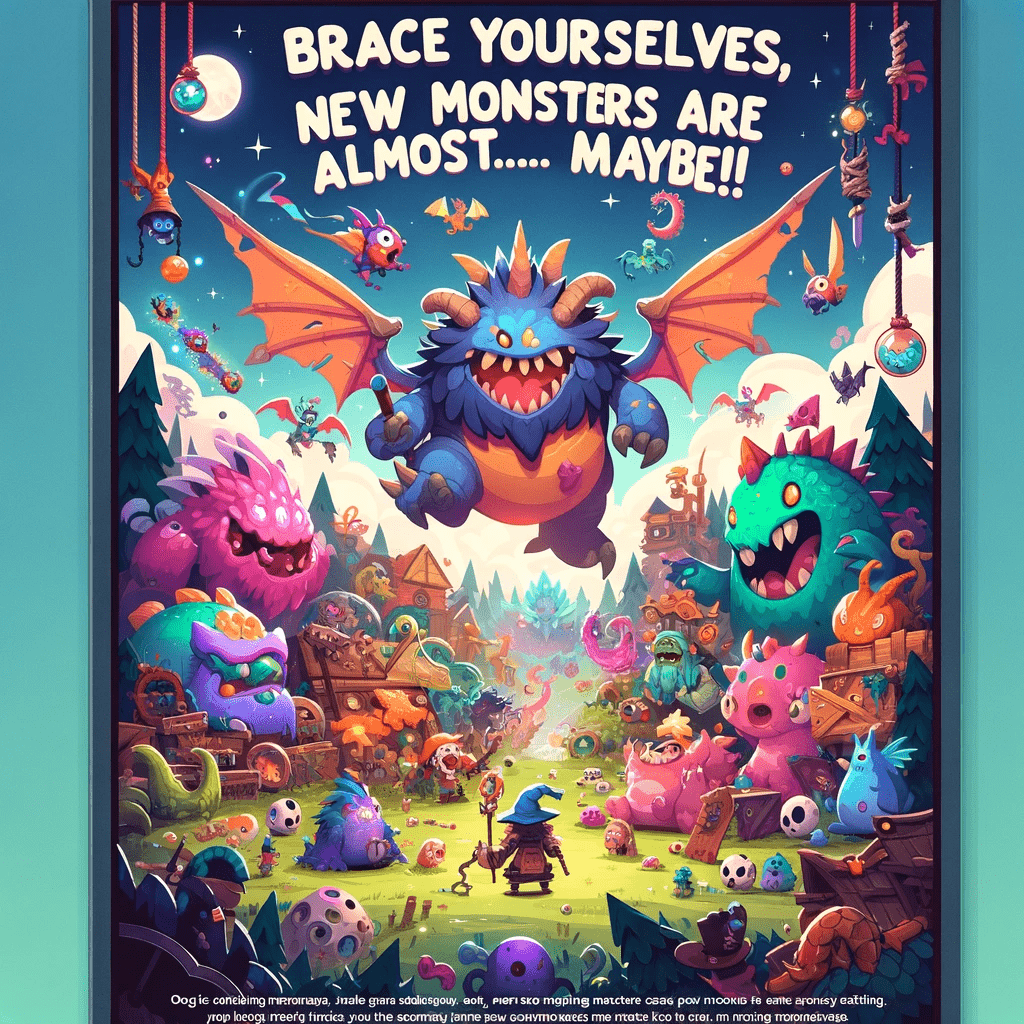
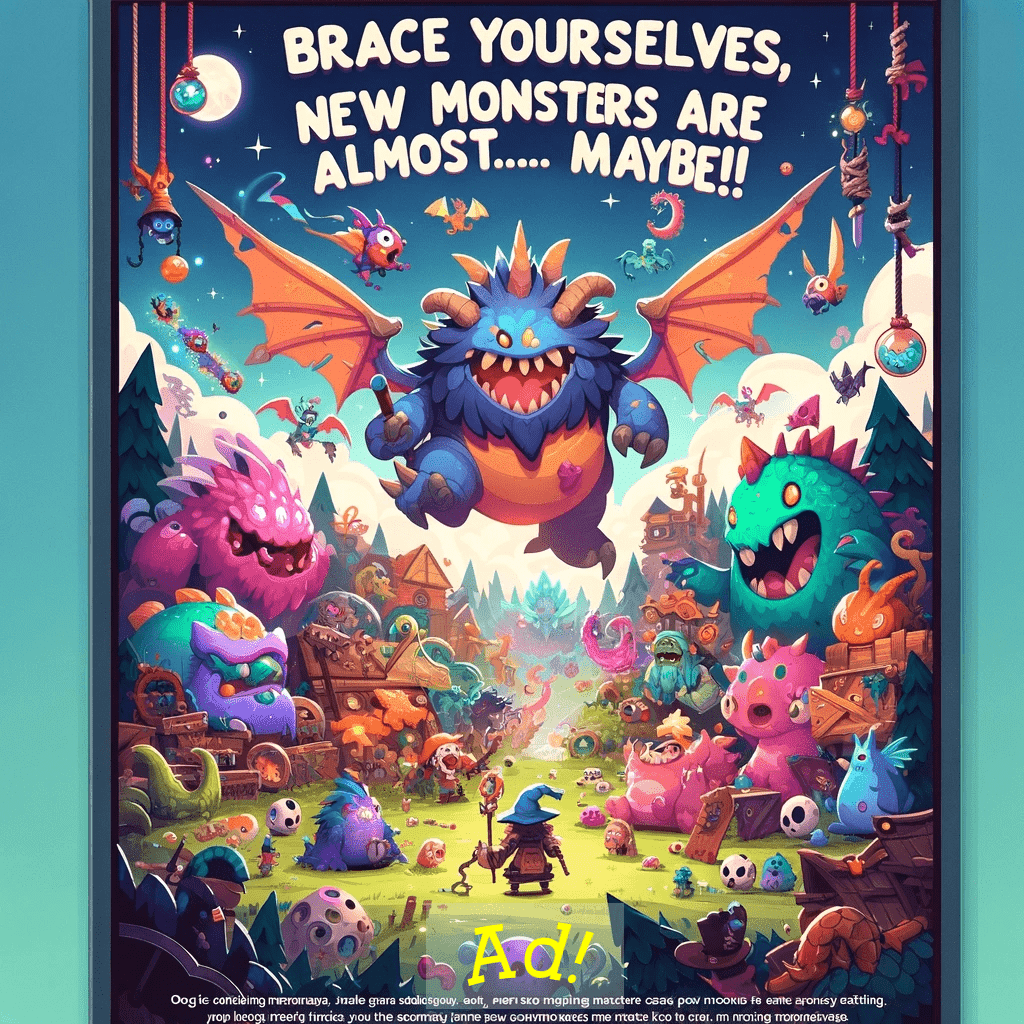
Second ad to modal added

diff --git a/screens/ScanningScreen.js b/screens/ScanningScreen.js
@@ -9,7 +9,9 @@ import { Audio } from 'expo-av';
 import Slider from '@react-native-community/slider';
 import ScanningModal from '../modals/ScanningModal';
 import AdModal from '../modals/AdModal';
-import adImage from '../assets/images/adpicture1.png';
+import adImage1 from '../assets/images/adpicture1.png';
+import adImage2 from '../assets/images/adpicture2.png';
+
 import { findMonster, fetchMonsterDetailsFromFirestore, fetchMonsterImageURL } from '../utils/monsterUtils';
 import AsyncStorage from '@react-native-async-storage/async-storage';
 
@@ -35,8 +37,11 @@ export default function ScanningScreen({ navigation }) {
   const [scannedBarcodes, setScannedBarcodes] = useState([]);
   const [scanningMessage, setScanningMessage] = useState('');
   const [adModalVisible, setAdModalVisible] = useState(false);
-  const adImage = require('../assets/images/adpicture1.png');
-
+  const [currentAdIndex, setCurrentAdIndex] = useState(0); // New state to track current ad
+  const ads = [
+    { image: adImage1,  },
+    { image: adImage2,  }
+  ]
   // Function to load the last 10 scanned barcodes from AsyncStorage
 const loadScannedBarcodes = async () => {
   try {
@@ -68,18 +73,15 @@ const saveScannedBarcodes = async () => {
   }
 };
 
-  const initiateScanning = () => {
-    // Randomly decide to show ad or initiate scanning
-    if (Math.random() < 0.2) { // Adjust this threshold as needed
-      // Show ad modal
-      setAdModalVisible(true);
-
-      // Hide ad modal after 3 seconds
-      setTimeout(() => {
+const initiateScanning = () => {
+  if (Math.random() < 0.2) {
+    setAdModalVisible(true);
+    setCurrentAdIndex((prevIndex) => (prevIndex + 1) % ads.length); // Alternate between ads
+    setTimeout(() => {
       setAdModalVisible(false);
-      }, 3000);
-
-      return;
+    }, 3000);
+    return;
+    
     }
     setLastScannedData(null);
     setIsScanningActive(true);
@@ -316,7 +318,14 @@ const saveScannedBarcodes = async () => {
           {/* Placeholder content or empty view */}
         </View>
       )}
-
+{/* Ad Modal */}
+{adModalVisible && (
+        <AdModal
+          isVisible={adModalVisible}
+          adContent={ads[currentAdIndex]} // Pass the current ad content
+          onClose={() => setAdModalVisible(false)}
+        />
+      )}
 {/* ALLA OLEVA NÄYTTÄÄ VIESTIN, JOS SKANNATTU KOODI ON JO SKANNATTU AIEMMIN. VOI TESTEISSÄ KOMMENTOIDA POIS */}
 {/* ALLA OLEVA NÄYTTÄÄ VIESTIN, JOS EI TULE MONSTERIA. VOI TESTEISSÄ KOMMENTOIDA POIS */}
 {/* --------------------------------------------------------------- */}

diff --git a/modals/AdModal.js b/modals/AdModal.js
@@ -1,7 +1,8 @@
+// AdModal.js
 import React, { useState, useEffect } from 'react';
-import { Modal, View, Image, StyleSheet, Text } from 'react-native';
+import { Modal, View, Image, StyleSheet } from 'react-native';
 
-const AdModal = ({ isVisible, onClose }) => {
+const AdModal = ({ isVisible, onClose, adContent }) => {
   useEffect(() => {
     let timer;
     if (isVisible) {
@@ -9,7 +10,6 @@ const AdModal = ({ isVisible, onClose }) => {
         onClose(); // Close the modal after 3 seconds
       }, 3000);
     }
-    
     return () => clearTimeout(timer);
   }, [isVisible]);
 
@@ -23,7 +23,7 @@ const AdModal = ({ isVisible, onClose }) => {
       <View style={styles.centeredView}>
         <View style={styles.modalView}>
           <Image 
-            source={require('../assets/images/adpicture1.png')} // Replace with your image path
+            source={adContent.image} // Use the adContent prop for the image source
             style={styles.image}
           />
           {/* Additional content can go here */}
